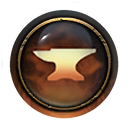
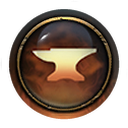
Menu medallions' rings all the same size: each image rescaled so its ring is 86% of it and centred, as Tomes' is (Heroes' filled 94%, the HUD buttons' 84%, Units' sat 2px off-centre)

diff --git a/EVOLVED.md b/EVOLVED.md
@@ -46,7 +46,8 @@ game's world-map HUD (its sheet is `Icons/Interface/TopBar.png`), in three bands
 - the banner (`--banner-height`, 80px): just the title on the picture, which darkens towards the menu;
 - the menu on the game's stone bar (`Icons/Interface/HudStoneBar.png`: the sheet's bar with its gem at both ends), its
   labels in the game's Header font; the dropdowns on the cards' panel, a group (Culture ▸) in gold, a page in blue.
-  Every menu item has one of the game's round HUD medallions, 44px and centred on the stone. Units, Heroes and Search
+  Every menu item has one of the game's round HUD medallions, 44px and centred on the stone, its ring 86% of its image
+  (as in `TomesIcon.png`) so all nine rings are the same size. Units, Heroes and Search
   (upstream: the Tome Units star, `HeroIcon.png` and `search.png`) have `UnitsIcon.png`, `HeroesIcon.png` and
   `SearchIcon.png`: the Culture Units, Heroes and Search medallions with their glyph cleared and the game's own text icon
   (`Icons/TML/unit.png`, `unithero.png`, `inspect.png`) drawn smaller in its place, as small in its circle as the others'
